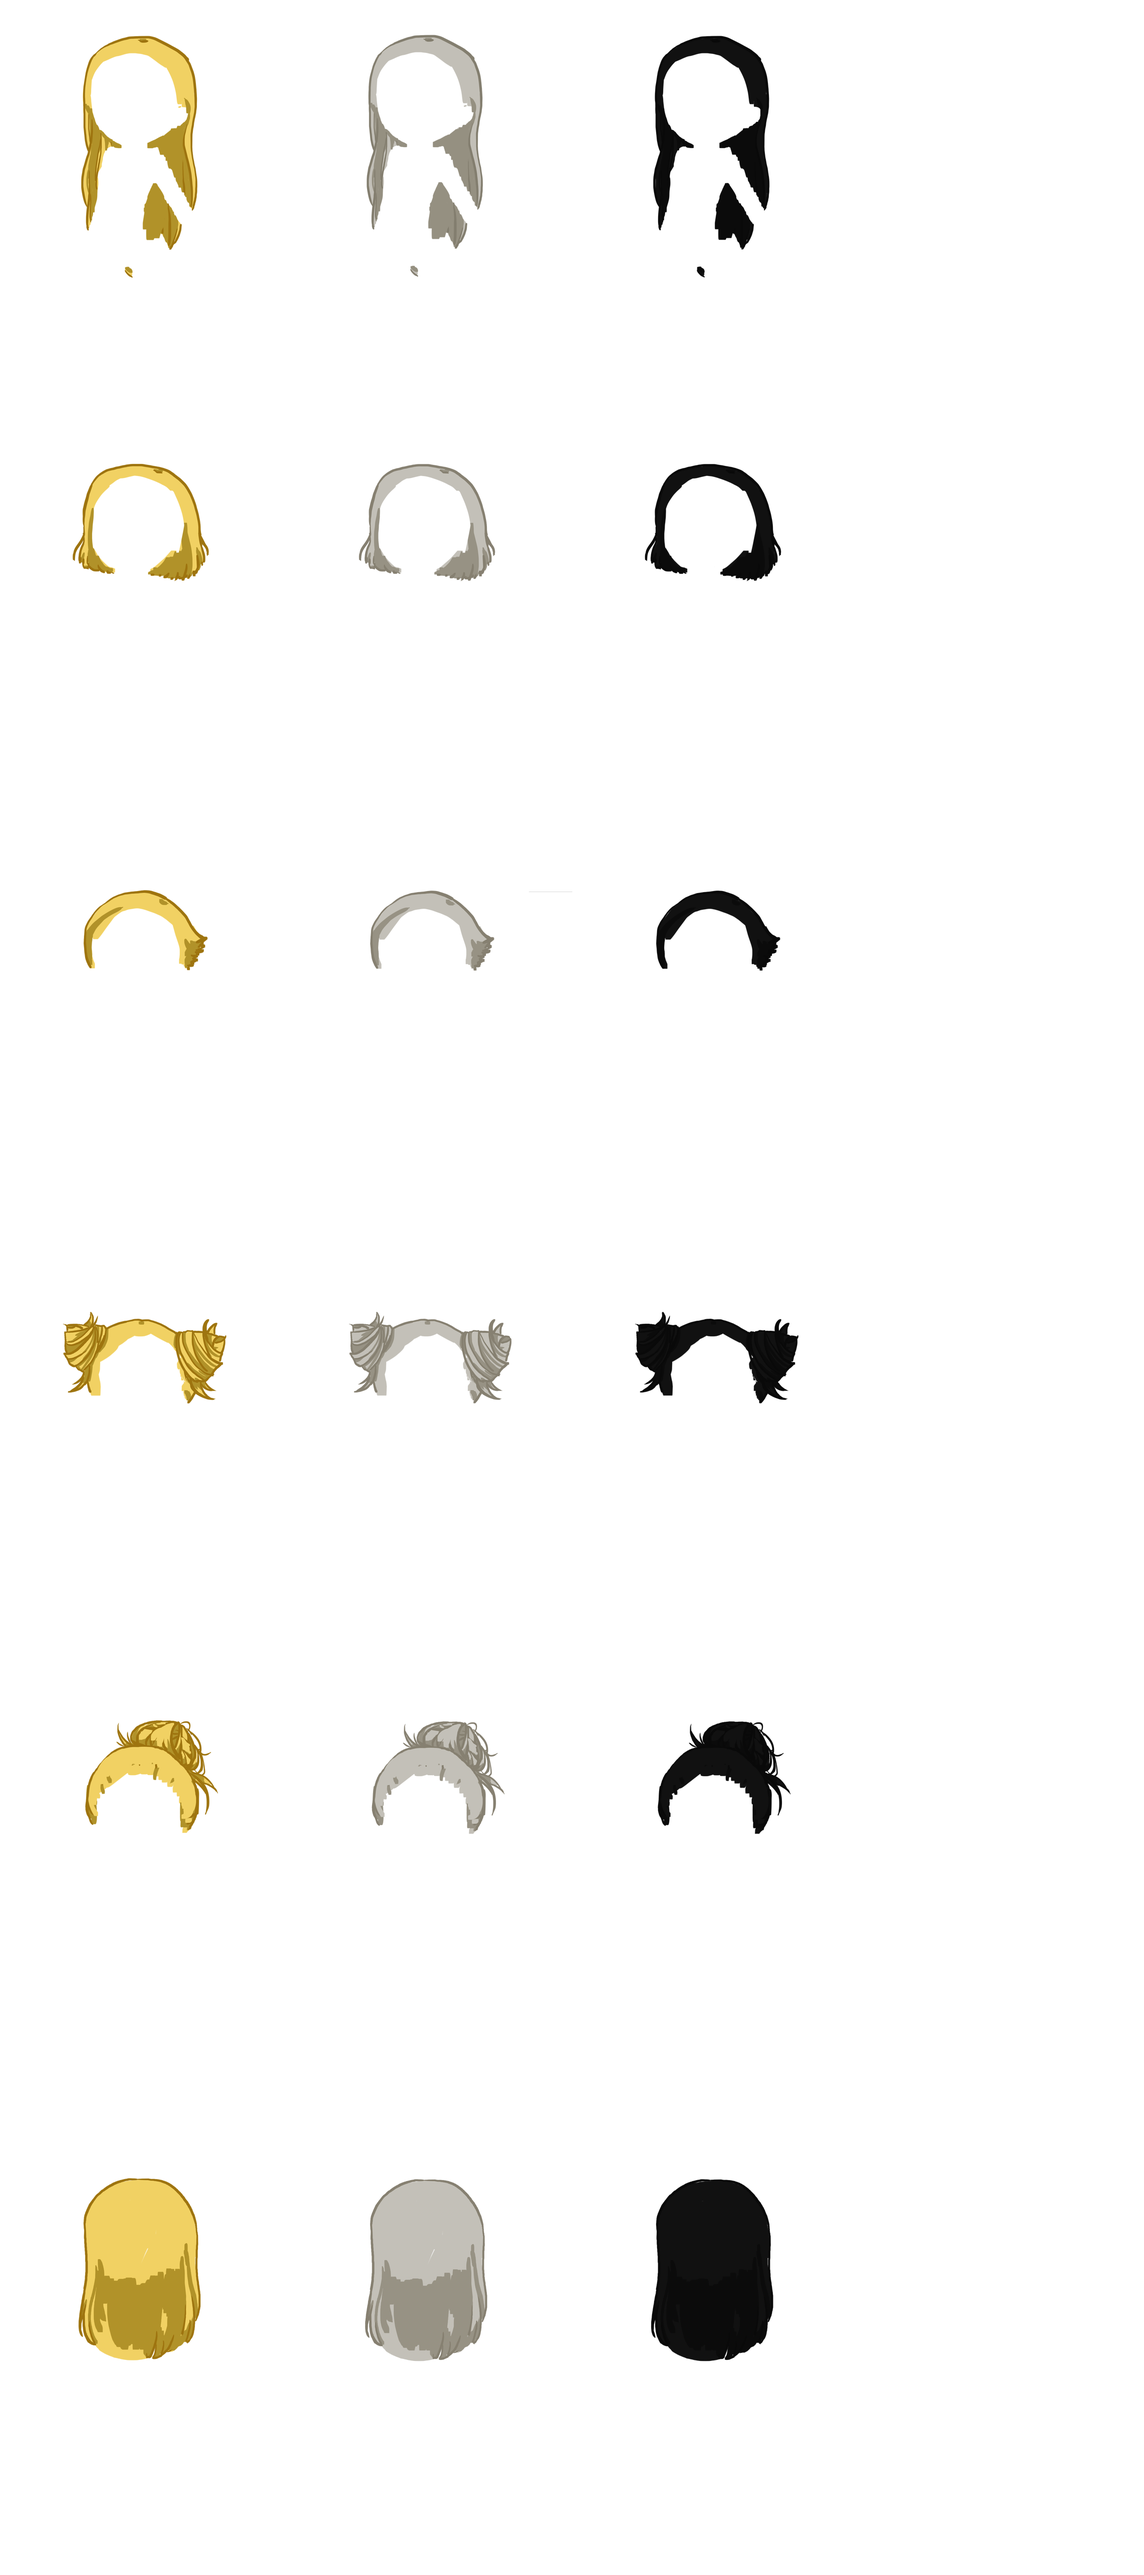
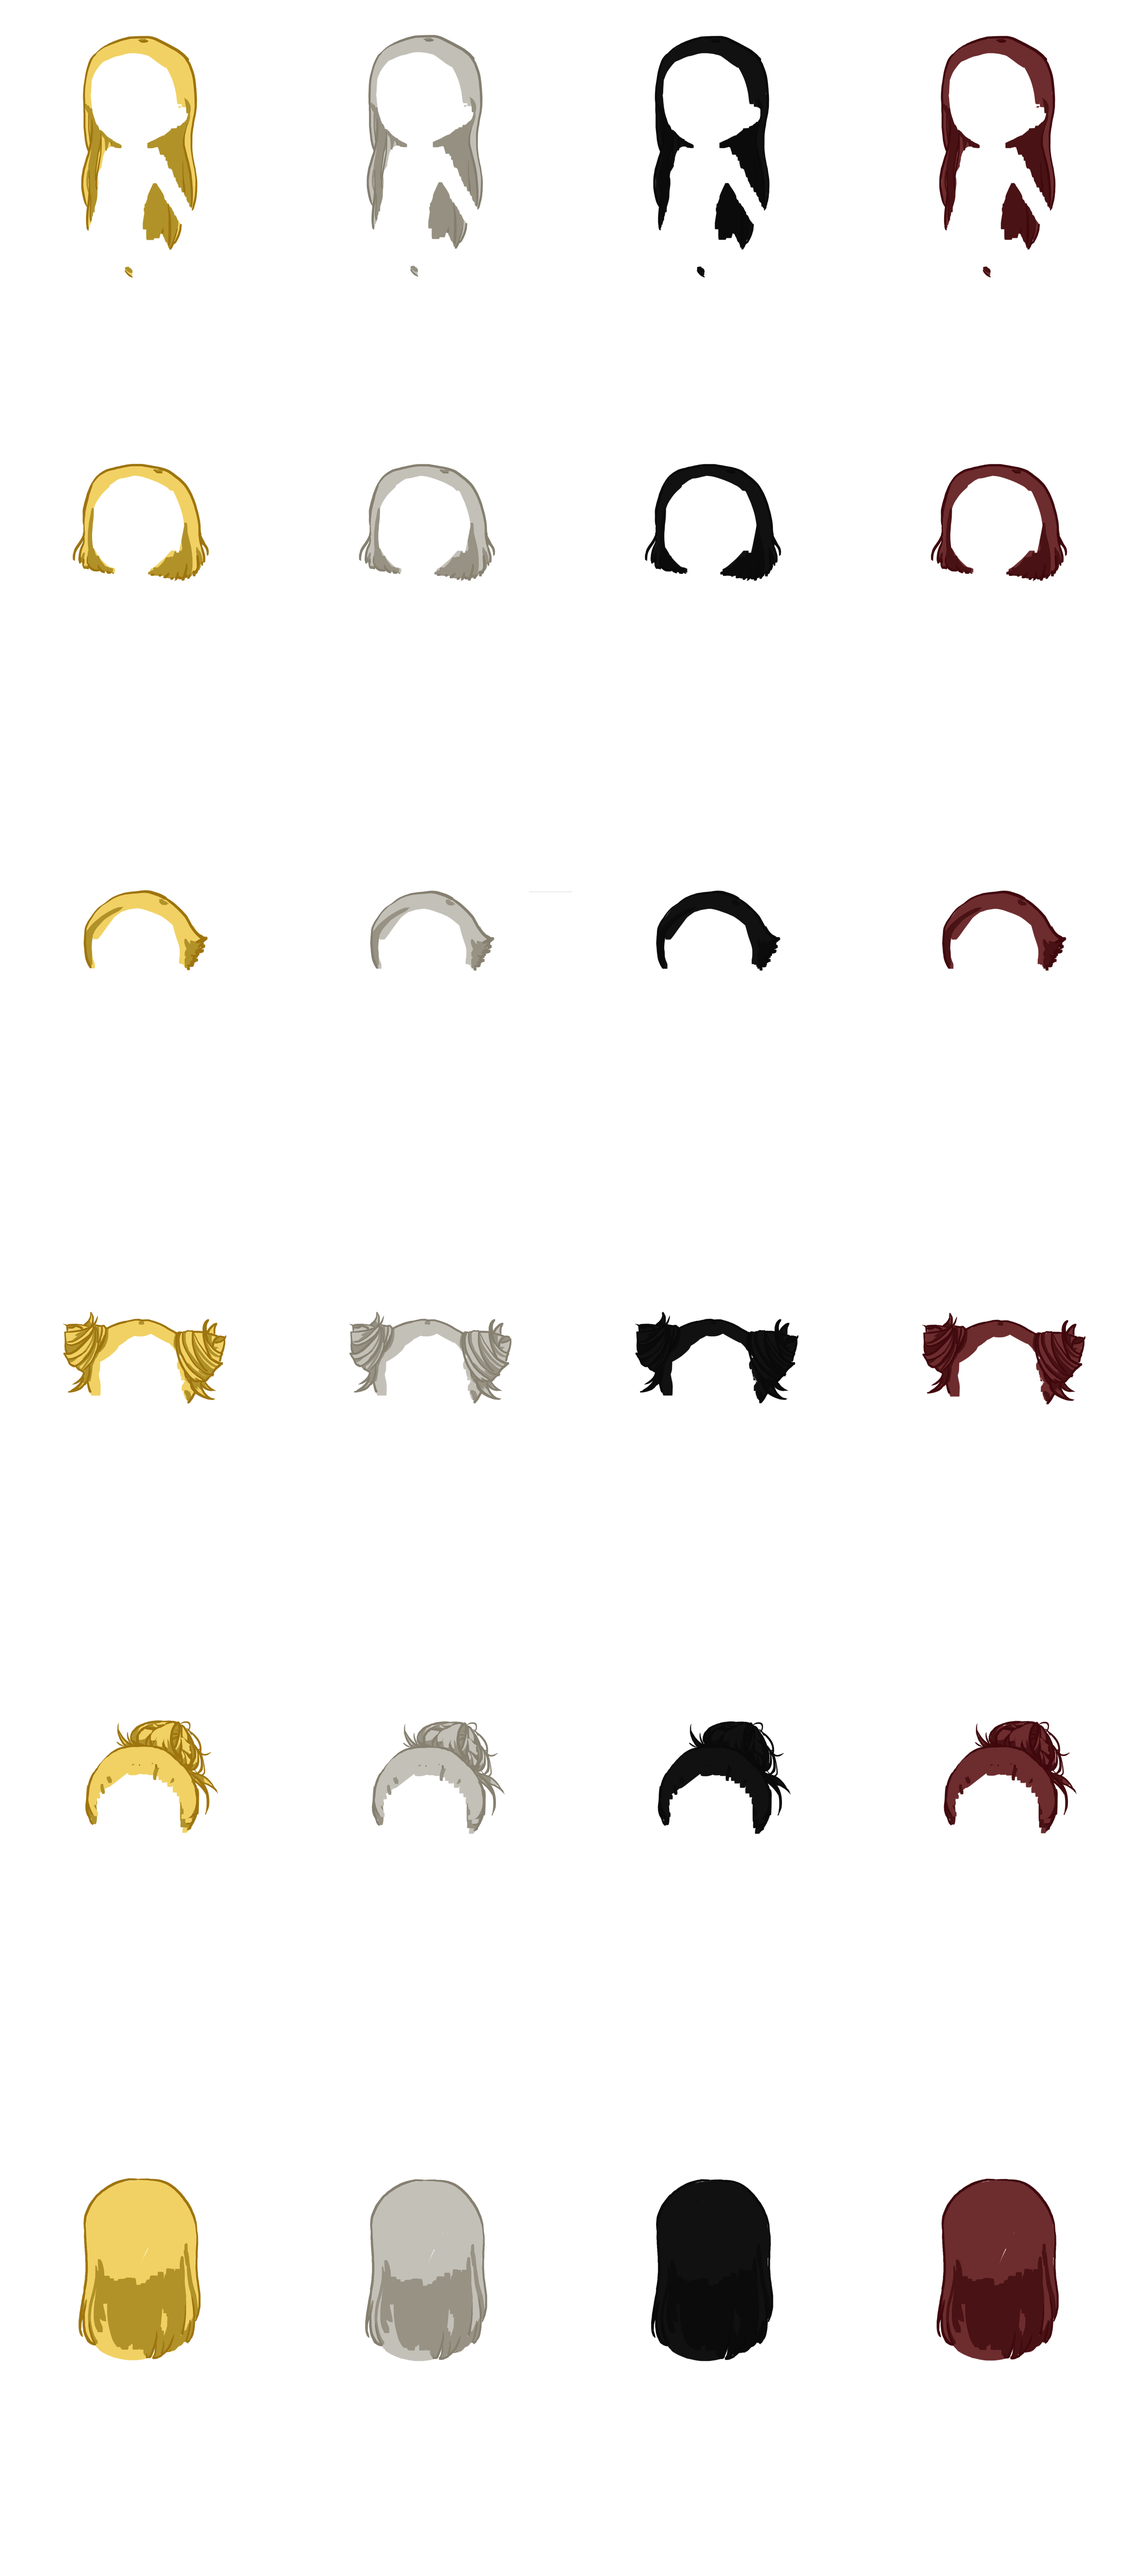
Added brown hair sprites.

diff --git a/src/model/model.js b/src/model/model.js
@@ -5,9 +5,8 @@ class Model{
         this.bodyBaseFrame = this.modelLibrary.bodyBaseFrames[0];
 
         this.hairBackStyle = 3;
-        this.hairBackColour = 0;
+        this.hairColour = 0;
         this.fringeStyle = 1;
-        this.fringeColour = 0;
         this.eyesStyle = 0;
         this.eyesColour = 0;
         this.mouthStyle = 0;
@@ -17,15 +16,14 @@ class Model{
         this.legAccessoryStyle = 0;
         this.topStyle = 0;
         this.bottomStyle = 0;
-        console.dir(this.modelLibrary.hairBackFrames);
     }
 
     update() {
-        this.hairBackFrame = this.modelLibrary.hairBackFrames[this.hairBackStyle][this.hairBackColour];
+        this.hairBackFrame = this.modelLibrary.hairBackFrames[this.hairBackStyle][this.hairColour];
         this.eyebrowsFrame = this.modelLibrary.eyebrowFrames[this.eyebrowsStyle];
         this.eyesFrame = this.modelLibrary.eyeFrames[this.eyesStyle][this.eyesColour];
         this.mouthFrame = this.modelLibrary.mouthFrames[this.mouthStyle];
-        this.fringeFrame = this.modelLibrary.fringeFrames[this.fringeStyle][this.fringeColour];
+        this.fringeFrame = this.modelLibrary.fringeFrames[this.fringeStyle][this.hairColour];
         this.braFrame = this.modelLibrary.braFrames[this.braStyle];
         this.underwearFrame = this.modelLibrary.underwearFrames[this.underwearStyle];
         this.legAccessoryFrame = this.modelLibrary.legAccessoryFrames[this.legAccessoryStyle];
@@ -210,16 +208,16 @@ class Model{
     changeHairColour(colour){
         switch(colour){
             case 'yellow':
-                this.fringeColour = 0;
-                this.hairBackColour = 0;
+                this.hairColour = 0;
                 break;
             case 'gray':
-                this.fringeColour = 1;
-                this.hairBackColour = 1;
+                this.hairColour = 1;
                 break;
             case 'black':
-                this.fringeColour = 2;
-                this.hairBackColour = 2;
+                this.hairColour = 2;
+                break;
+            case "brown":
+                this.hairColour = 3;
                 break;
         }
     }

diff --git a/src/model/modelLibrary.js b/src/model/modelLibrary.js
@@ -20,6 +20,8 @@ class ModelLibrary {
         this.bottomsWidth = 441;
         this.bottomsHeight = 432;
 
+        this.hairColours = 4;
+
         this.backHairCount = 6;
         this.fringeCount = 5;
         this.eyesCount = 2;
@@ -133,7 +135,7 @@ class ModelLibrary {
 
         for (let i = 0; i < this.fringeCount; i++){
             let currentFringe = [];
-            for (let j = 0; j < 3; j++) {
+            for (let j = 0; j < this.hairColours; j++) {
                 let currentFrame = new Frame(x, y, this.hairWidth, this.hairHeight);
                 currentFringe.push(currentFrame);
                 x += this.hairWidth;
@@ -150,7 +152,7 @@ class ModelLibrary {
 
         for (let i = 0; i < this.backHairCount; i++){
             let hairStyle = [];
-            for (let j = 0; j < 3; j++) {
+            for (let j = 0; j < this.hairColours; j++) {
                 let currentFrame = new Frame(x, y, this.hairWidth, this.hairHeight);
                 hairStyle.push(currentFrame);
                 x += this.hairWidth;

diff --git a/src/UI Elements/windows/hairCategoryWindow.js b/src/UI Elements/windows/hairCategoryWindow.js
@@ -92,7 +92,7 @@ class HairCategoryWindow  {
         this.colourPickers[0].addButton(new Button(0, 0, 'colour-gray', () => this.model.changeHairColour('gray'), this.buttonLibrary));
         this.colourPickers[0].addButton(new Button(0, 0, 'colour-yellow', () => this.model.changeHairColour('yellow'), this.buttonLibrary));
         this.colourPickers[0].addButton(new Button(0, 0, 'colour-red', null, this.buttonLibrary));
-        this.colourPickers[0].addButton(new Button(0, 0, 'colour-brown', null, this.buttonLibrary));
+        this.colourPickers[0].addButton(new Button(0, 0, 'colour-brown', () => this.model.changeHairColour('brown'), this.buttonLibrary));
         this.colourPickers[0].addButton(new Button(0, 0, 'colour-black', () => this.model.changeHairColour('black'), this.buttonLibrary));
         this.colourPickers[1].addButton(new Button(0, 0, 'colour-sky', null, this.buttonLibrary));
         this.colourPickers[1].addButton(new Button(0, 0, 'colour-green', null, this.buttonLibrary));
